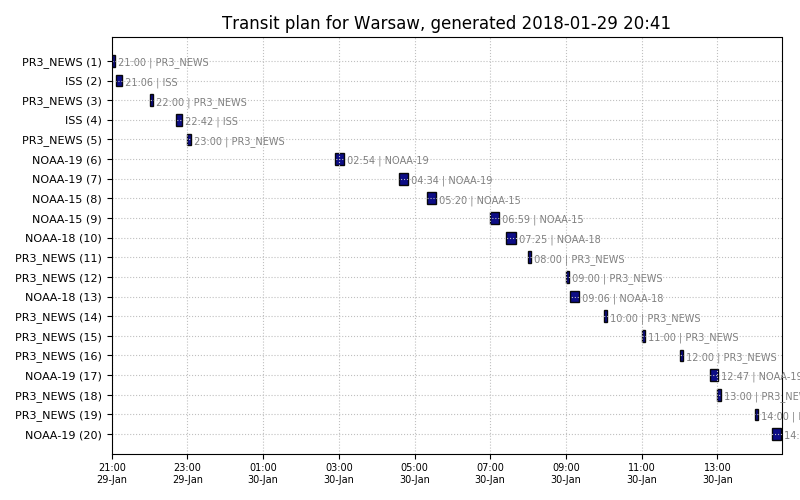
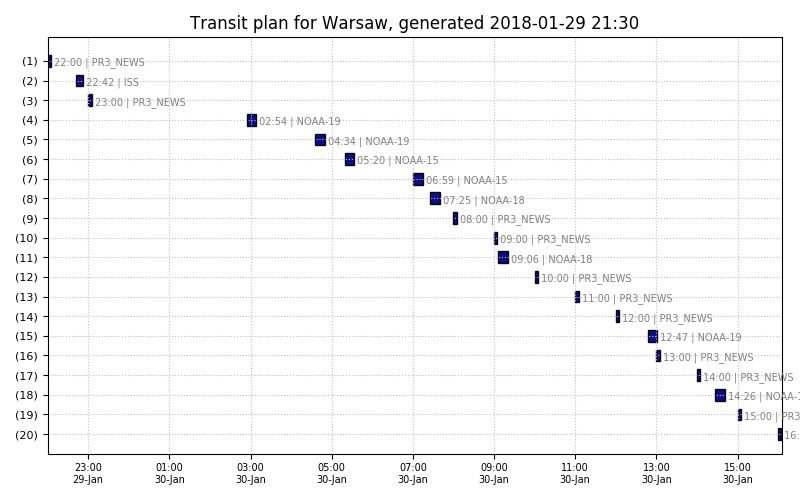
README fine tuning

diff --git a/var/nextpass.html b/var/nextpass.html
@@ -1,103 +1,103 @@
 <table>
 <tr><td>#</td><td>satellite</td><td>start</td><td>duration</td><td>peak</td><td>azimuth</td><td>freq</td><td>process with</td><tr>
-<tr><td>1</td><td>PR3_NEWS</td><td>2018-01-29 21:00</td><td>05:00</td><td>0°</td><td>0° (N)</td><td>98988000Hz</td><td>modules/fm/fm.sh</td><tr>
-<tr><td>2</td><td>ISS</td><td>2018-01-29 21:06</td><td>09:59</td><td>67°</td><td>191° (S)</td><td>145800000Hz</td><td>modules/iss/iss_voice.sh</td><tr>
-<tr><td>3</td><td>PR3_NEWS</td><td>2018-01-29 22:00</td><td>05:00</td><td>0°</td><td>0° (N)</td><td>98988000Hz</td><td>modules/fm/fm.sh</td><tr>
-<tr><td>4</td><td>ISS</td><td>2018-01-29 22:42</td><td>09:30</td><td>24°</td><td>210° (SSW)</td><td>145800000Hz</td><td>modules/iss/iss_voice.sh</td><tr>
-<tr><td>5</td><td>PR3_NEWS</td><td>2018-01-29 23:00</td><td>05:00</td><td>0°</td><td>0° (N)</td><td>98988000Hz</td><td>modules/fm/fm.sh</td><tr>
-<tr><td>6</td><td>NOAA-19</td><td>2018-01-30 02:54</td><td>14:22</td><td>30°</td><td>94° (E)</td><td>137100000Hz</td><td>modules/noaa/noaa.sh</td><tr>
-<tr><td>7</td><td>NOAA-19</td><td>2018-01-30 04:34</td><td>14:54</td><td>53°</td><td>294° (WNW)</td><td>137100000Hz</td><td>modules/noaa/noaa.sh</td><tr>
-<tr><td>8</td><td>NOAA-15</td><td>2018-01-30 05:20</td><td>13:16</td><td>22°</td><td>90° (E)</td><td>137620000Hz</td><td>modules/noaa/noaa.sh</td><tr>
-<tr><td>9</td><td>NOAA-15</td><td>2018-01-30 06:59</td><td>14:35</td><td>68°</td><td>290° (W)</td><td>137620000Hz</td><td>modules/noaa/noaa.sh</td><tr>
-<tr><td>10</td><td>NOAA-18</td><td>2018-01-30 07:25</td><td>14:57</td><td>61°</td><td>102° (E)</td><td>137912500Hz</td><td>modules/noaa/noaa.sh</td><tr>
-<tr><td>11</td><td>PR3_NEWS</td><td>2018-01-30 08:00</td><td>05:00</td><td>0°</td><td>0° (N)</td><td>98988000Hz</td><td>modules/fm/fm.sh</td><tr>
-<tr><td>12</td><td>PR3_NEWS</td><td>2018-01-30 09:00</td><td>05:00</td><td>0°</td><td>0° (N)</td><td>98988000Hz</td><td>modules/fm/fm.sh</td><tr>
-<tr><td>13</td><td>NOAA-18</td><td>2018-01-30 09:06</td><td>13:49</td><td>28°</td><td>302° (WNW)</td><td>137912500Hz</td><td>modules/noaa/noaa.sh</td><tr>
-<tr><td>14</td><td>PR3_NEWS</td><td>2018-01-30 10:00</td><td>05:00</td><td>0°</td><td>0° (N)</td><td>98988000Hz</td><td>modules/fm/fm.sh</td><tr>
-<tr><td>15</td><td>PR3_NEWS</td><td>2018-01-30 11:00</td><td>05:00</td><td>0°</td><td>0° (N)</td><td>98988000Hz</td><td>modules/fm/fm.sh</td><tr>
-<tr><td>16</td><td>PR3_NEWS</td><td>2018-01-30 12:00</td><td>05:00</td><td>0°</td><td>0° (N)</td><td>98988000Hz</td><td>modules/fm/fm.sh</td><tr>
-<tr><td>17</td><td>NOAA-19</td><td>2018-01-30 12:47</td><td>13:03</td><td>20°</td><td>52° (NE)</td><td>137100000Hz</td><td>modules/noaa/noaa.sh</td><tr>
-<tr><td>18</td><td>PR3_NEWS</td><td>2018-01-30 13:00</td><td>05:00</td><td>0°</td><td>0° (N)</td><td>98988000Hz</td><td>modules/fm/fm.sh</td><tr>
-<tr><td>19</td><td>PR3_NEWS</td><td>2018-01-30 14:00</td><td>05:00</td><td>0°</td><td>0° (N)</td><td>98988000Hz</td><td>modules/fm/fm.sh</td><tr>
-<tr><td>20</td><td>NOAA-19</td><td>2018-01-30 14:26</td><td>15:04</td><td>88°</td><td>252° (WSW)</td><td>137100000Hz</td><td>modules/noaa/noaa.sh</td><tr>
-<tr><td>21</td><td>PR3_NEWS</td><td>2018-01-30 15:00</td><td>05:00</td><td>0°</td><td>0° (N)</td><td>98988000Hz</td><td>modules/fm/fm.sh</td><tr>
-<tr><td>22</td><td>PR3_NEWS</td><td>2018-01-30 16:00</td><td>05:00</td><td>0°</td><td>0° (N)</td><td>98988000Hz</td><td>modules/fm/fm.sh</td><tr>
-<tr><td>23</td><td>NOAA-15</td><td>2018-01-30 16:46</td><td>14:29</td><td>60°</td><td>68° (ENE)</td><td>137620000Hz</td><td>modules/noaa/noaa.sh</td><tr>
-<tr><td>24</td><td>PR3_NEWS</td><td>2018-01-30 17:00</td><td>05:00</td><td>0°</td><td>0° (N)</td><td>98988000Hz</td><td>modules/fm/fm.sh</td><tr>
-<tr><td>25</td><td>ISS</td><td>2018-01-30 17:01</td><td>09:11</td><td>21°</td><td>146° (SE)</td><td>145800000Hz</td><td>modules/iss/iss_voice.sh</td><tr>
-<tr><td>26</td><td>NOAA-18</td><td>2018-01-30 17:17</td><td>14:25</td><td>37°</td><td>61° (NE)</td><td>137912500Hz</td><td>modules/noaa/noaa.sh</td><tr>
-<tr><td>27</td><td>PR3_NEWS</td><td>2018-01-30 18:00</td><td>05:00</td><td>0°</td><td>0° (N)</td><td>98988000Hz</td><td>modules/fm/fm.sh</td><tr>
-<tr><td>28</td><td>NOAA-15</td><td>2018-01-30 18:26</td><td>13:38</td><td>25°</td><td>268° (WSW)</td><td>137620000Hz</td><td>modules/noaa/noaa.sh</td><tr>
-<tr><td>29</td><td>ISS</td><td>2018-01-30 18:37</td><td>09:58</td><td>62°</td><td>165° (SSE)</td><td>145800000Hz</td><td>modules/iss/iss_voice.sh</td><tr>
-<tr><td>30</td><td>NOAA-18</td><td>2018-01-30 18:58</td><td>14:40</td><td>43°</td><td>261° (WSW)</td><td>137912500Hz</td><td>modules/noaa/noaa.sh</td><tr>
-<tr><td>31</td><td>PR3_NEWS</td><td>2018-01-30 20:00</td><td>05:00</td><td>0°</td><td>0° (N)</td><td>98988000Hz</td><td>modules/fm/fm.sh</td><tr>
-<tr><td>32</td><td>ISS</td><td>2018-01-30 20:13</td><td>10:01</td><td>77°</td><td>185° (S)</td><td>145800000Hz</td><td>modules/iss/iss_voice.sh</td><tr>
-<tr><td>33</td><td>PR3_NEWS</td><td>2018-01-30 21:00</td><td>05:00</td><td>0°</td><td>0° (N)</td><td>98988000Hz</td><td>modules/fm/fm.sh</td><tr>
-<tr><td>34</td><td>ISS</td><td>2018-01-30 21:50</td><td>09:42</td><td>35°</td><td>205° (SSW)</td><td>145800000Hz</td><td>modules/iss/iss_voice.sh</td><tr>
-<tr><td>35</td><td>PR3_NEWS</td><td>2018-01-30 22:00</td><td>05:00</td><td>0°</td><td>0° (N)</td><td>98988000Hz</td><td>modules/fm/fm.sh</td><tr>
-<tr><td>36</td><td>PR3_NEWS</td><td>2018-01-30 23:00</td><td>05:00</td><td>0°</td><td>0° (N)</td><td>98988000Hz</td><td>modules/fm/fm.sh</td><tr>
-<tr><td>37</td><td>NOAA-19</td><td>2018-01-31 02:42</td><td>14:03</td><td>25°</td><td>91° (E)</td><td>137100000Hz</td><td>modules/noaa/noaa.sh</td><tr>
-<tr><td>38</td><td>NOAA-19</td><td>2018-01-31 04:23</td><td>15:04</td><td>64°</td><td>291° (W)</td><td>137100000Hz</td><td>modules/noaa/noaa.sh</td><tr>
-<tr><td>39</td><td>NOAA-15</td><td>2018-01-31 06:34</td><td>14:40</td><td>79°</td><td>105° (E)</td><td>137620000Hz</td><td>modules/noaa/noaa.sh</td><tr>
-<tr><td>40</td><td>PR3_NEWS</td><td>2018-01-31 07:00</td><td>05:00</td><td>0°</td><td>0° (N)</td><td>98988000Hz</td><td>modules/fm/fm.sh</td><tr>
-<tr><td>41</td><td>NOAA-18</td><td>2018-01-31 07:13</td><td>14:50</td><td>50°</td><td>100° (E)</td><td>137912500Hz</td><td>modules/noaa/noaa.sh</td><tr>
-<tr><td>42</td><td>PR3_NEWS</td><td>2018-01-31 08:00</td><td>05:00</td><td>0°</td><td>0° (N)</td><td>98988000Hz</td><td>modules/fm/fm.sh</td><tr>
-<tr><td>43</td><td>NOAA-15</td><td>2018-01-31 08:14</td><td>12:54</td><td>22°</td><td>305° (WNW)</td><td>137620000Hz</td><td>modules/noaa/noaa.sh</td><tr>
-<tr><td>44</td><td>NOAA-18</td><td>2018-01-31 08:54</td><td>14:06</td><td>33°</td><td>300° (WNW)</td><td>137912500Hz</td><td>modules/noaa/noaa.sh</td><tr>
-<tr><td>45</td><td>PR3_NEWS</td><td>2018-01-31 10:00</td><td>05:00</td><td>0°</td><td>0° (N)</td><td>98988000Hz</td><td>modules/fm/fm.sh</td><tr>
-<tr><td>46</td><td>PR3_NEWS</td><td>2018-01-31 11:00</td><td>05:00</td><td>0°</td><td>0° (N)</td><td>98988000Hz</td><td>modules/fm/fm.sh</td><tr>
-<tr><td>47</td><td>PR3_NEWS</td><td>2018-01-31 12:00</td><td>05:00</td><td>0°</td><td>0° (N)</td><td>98988000Hz</td><td>modules/fm/fm.sh</td><tr>
-<tr><td>48</td><td>PR3_NEWS</td><td>2018-01-31 13:00</td><td>05:00</td><td>0°</td><td>0° (N)</td><td>98988000Hz</td><td>modules/fm/fm.sh</td><tr>
-<tr><td>49</td><td>PR3_NEWS</td><td>2018-01-31 14:00</td><td>05:00</td><td>0°</td><td>0° (N)</td><td>98988000Hz</td><td>modules/fm/fm.sh</td><tr>
-<tr><td>50</td><td>NOAA-19</td><td>2018-01-31 14:15</td><td>15:01</td><td>77°</td><td>70° (ENE)</td><td>137100000Hz</td><td>modules/noaa/noaa.sh</td><tr>
-<tr><td>51</td><td>PR3_NEWS</td><td>2018-01-31 15:00</td><td>05:00</td><td>0°</td><td>0° (N)</td><td>98988000Hz</td><td>modules/fm/fm.sh</td><tr>
-<tr><td>52</td><td>NOAA-19</td><td>2018-01-31 15:57</td><td>13:22</td><td>20°</td><td>270° (W)</td><td>137100000Hz</td><td>modules/noaa/noaa.sh</td><tr>
-<tr><td>53</td><td>NOAA-15</td><td>2018-01-31 16:21</td><td>14:05</td><td>40°</td><td>63° (NE)</td><td>137620000Hz</td><td>modules/noaa/noaa.sh</td><tr>
-<tr><td>54</td><td>PR3_NEWS</td><td>2018-01-31 17:00</td><td>05:00</td><td>0°</td><td>0° (N)</td><td>98988000Hz</td><td>modules/fm/fm.sh</td><tr>
-<tr><td>55</td><td>NOAA-18</td><td>2018-01-31 17:06</td><td>14:06</td><td>32°</td><td>58° (NE)</td><td>137912500Hz</td><td>modules/noaa/noaa.sh</td><tr>
-<tr><td>56</td><td>ISS</td><td>2018-01-31 17:45</td><td>09:59</td><td>47°</td><td>160° (SSE)</td><td>145800000Hz</td><td>modules/iss/iss_voice.sh</td><tr>
-<tr><td>57</td><td>PR3_NEWS</td><td>2018-01-31 18:00</td><td>05:00</td><td>0°</td><td>0° (N)</td><td>98988000Hz</td><td>modules/fm/fm.sh</td><tr>
-<tr><td>58</td><td>NOAA-15</td><td>2018-01-31 18:01</td><td>14:14</td><td>38°</td><td>263° (WSW)</td><td>137620000Hz</td><td>modules/noaa/noaa.sh</td><tr>
-<tr><td>59</td><td>NOAA-18</td><td>2018-01-31 18:46</td><td>14:59</td><td>53°</td><td>258° (WSW)</td><td>137912500Hz</td><td>modules/noaa/noaa.sh</td><tr>
-<tr><td>60</td><td>PR3_NEWS</td><td>2018-01-31 19:00</td><td>05:00</td><td>0°</td><td>0° (N)</td><td>98988000Hz</td><td>modules/fm/fm.sh</td><tr>
-<tr><td>61</td><td>ISS</td><td>2018-01-31 19:21</td><td>10:07</td><td>81°</td><td>179° (SSE)</td><td>145800000Hz</td><td>modules/iss/iss_voice.sh</td><tr>
-<tr><td>62</td><td>PR3_NEWS</td><td>2018-01-31 20:00</td><td>05:00</td><td>0°</td><td>0° (N)</td><td>98988000Hz</td><td>modules/fm/fm.sh</td><tr>
-<tr><td>63</td><td>PR3_NEWS</td><td>2018-01-31 21:00</td><td>05:00</td><td>0°</td><td>0° (N)</td><td>98988000Hz</td><td>modules/fm/fm.sh</td><tr>
-<tr><td>64</td><td>PR3_NEWS</td><td>2018-01-31 22:00</td><td>05:00</td><td>0°</td><td>0° (N)</td><td>98988000Hz</td><td>modules/fm/fm.sh</td><tr>
-<tr><td>65</td><td>PR3_NEWS</td><td>2018-01-31 23:00</td><td>05:00</td><td>0°</td><td>0° (N)</td><td>98988000Hz</td><td>modules/fm/fm.sh</td><tr>
-<tr><td>66</td><td>NOAA-19</td><td>2018-02-01 02:31</td><td>13:33</td><td>20°</td><td>89° (ENE)</td><td>137100000Hz</td><td>modules/noaa/noaa.sh</td><tr>
-<tr><td>67</td><td>NOAA-19</td><td>2018-02-01 04:11</td><td>15:10</td><td>77°</td><td>289° (W)</td><td>137100000Hz</td><td>modules/noaa/noaa.sh</td><tr>
-<tr><td>68</td><td>NOAA-15</td><td>2018-02-01 06:09</td><td>14:30</td><td>51°</td><td>100° (E)</td><td>137620000Hz</td><td>modules/noaa/noaa.sh</td><tr>
-<tr><td>69</td><td>PR3_NEWS</td><td>2018-02-01 07:00</td><td>05:00</td><td>0°</td><td>0° (N)</td><td>98988000Hz</td><td>modules/fm/fm.sh</td><tr>
-<tr><td>70</td><td>NOAA-18</td><td>2018-02-01 07:02</td><td>14:37</td><td>41°</td><td>98° (E)</td><td>137912500Hz</td><td>modules/noaa/noaa.sh</td><tr>
-<tr><td>71</td><td>NOAA-15</td><td>2018-02-01 07:49</td><td>13:41</td><td>31°</td><td>300° (WNW)</td><td>137620000Hz</td><td>modules/noaa/noaa.sh</td><tr>
-<tr><td>72</td><td>PR3_NEWS</td><td>2018-02-01 08:00</td><td>05:00</td><td>0°</td><td>0° (N)</td><td>98988000Hz</td><td>modules/fm/fm.sh</td><tr>
-<tr><td>73</td><td>NOAA-18</td><td>2018-02-01 08:43</td><td>14:22</td><td>39°</td><td>298° (WNW)</td><td>137912500Hz</td><td>modules/noaa/noaa.sh</td><tr>
-<tr><td>74</td><td>PR3_NEWS</td><td>2018-02-01 09:00</td><td>05:00</td><td>0°</td><td>0° (N)</td><td>98988000Hz</td><td>modules/fm/fm.sh</td><tr>
-<tr><td>75</td><td>PR3_NEWS</td><td>2018-02-01 10:00</td><td>05:00</td><td>0°</td><td>0° (N)</td><td>98988000Hz</td><td>modules/fm/fm.sh</td><tr>
-<tr><td>76</td><td>PR3_NEWS</td><td>2018-02-01 11:00</td><td>05:00</td><td>0°</td><td>0° (N)</td><td>98988000Hz</td><td>modules/fm/fm.sh</td><tr>
-<tr><td>77</td><td>PR3_NEWS</td><td>2018-02-01 12:00</td><td>05:00</td><td>0°</td><td>0° (N)</td><td>98988000Hz</td><td>modules/fm/fm.sh</td><tr>
-<tr><td>78</td><td>PR3_NEWS</td><td>2018-02-01 13:00</td><td>05:00</td><td>0°</td><td>0° (N)</td><td>98988000Hz</td><td>modules/fm/fm.sh</td><tr>
-<tr><td>79</td><td>PR3_NEWS</td><td>2018-02-01 14:00</td><td>05:00</td><td>0°</td><td>0° (N)</td><td>98988000Hz</td><td>modules/fm/fm.sh</td><tr>
-<tr><td>80</td><td>NOAA-19</td><td>2018-02-01 14:03</td><td>14:56</td><td>64°</td><td>68° (ENE)</td><td>137100000Hz</td><td>modules/noaa/noaa.sh</td><tr>
-<tr><td>81</td><td>PR3_NEWS</td><td>2018-02-01 15:00</td><td>05:00</td><td>0°</td><td>0° (N)</td><td>98988000Hz</td><td>modules/fm/fm.sh</td><tr>
-<tr><td>82</td><td>NOAA-19</td><td>2018-02-01 15:45</td><td>13:58</td><td>24°</td><td>268° (WSW)</td><td>137100000Hz</td><td>modules/noaa/noaa.sh</td><tr>
-<tr><td>83</td><td>NOAA-15</td><td>2018-02-01 15:56</td><td>13:34</td><td>27°</td><td>58° (NE)</td><td>137620000Hz</td><td>modules/noaa/noaa.sh</td><tr>
-<tr><td>84</td><td>NOAA-18</td><td>2018-02-01 16:54</td><td>13:46</td><td>27°</td><td>56° (NE)</td><td>137912500Hz</td><td>modules/noaa/noaa.sh</td><tr>
-<tr><td>85</td><td>NOAA-15</td><td>2018-02-01 17:35</td><td>14:41</td><td>60°</td><td>258° (WSW)</td><td>137620000Hz</td><td>modules/noaa/noaa.sh</td><tr>
-<tr><td>86</td><td>PR3_NEWS</td><td>2018-02-01 18:00</td><td>05:00</td><td>0°</td><td>0° (N)</td><td>98988000Hz</td><td>modules/fm/fm.sh</td><tr>
-<tr><td>87</td><td>NOAA-18</td><td>2018-02-01 18:34</td><td>15:05</td><td>65°</td><td>256° (WSW)</td><td>137912500Hz</td><td>modules/noaa/noaa.sh</td><tr>
-<tr><td>88</td><td>PR3_NEWS</td><td>2018-02-01 19:00</td><td>05:00</td><td>0°</td><td>0° (N)</td><td>98988000Hz</td><td>modules/fm/fm.sh</td><tr>
-<tr><td>89</td><td>ISS</td><td>2018-02-01 20:05</td><td>09:59</td><td>62°</td><td>193° (S)</td><td>145800000Hz</td><td>modules/iss/iss_voice.sh</td><tr>
-<tr><td>90</td><td>ISS</td><td>2018-02-01 21:42</td><td>09:12</td><td>21°</td><td>212° (SSW)</td><td>145800000Hz</td><td>modules/iss/iss_voice.sh</td><tr>
-<tr><td>91</td><td>NOAA-19</td><td>2018-02-02 04:00</td><td>15:13</td><td>88°</td><td>107° (E)</td><td>137100000Hz</td><td>modules/noaa/noaa.sh</td><tr>
-<tr><td>92</td><td>NOAA-19</td><td>2018-02-02 05:41</td><td>13:12</td><td>21°</td><td>307° (WNW)</td><td>137100000Hz</td><td>modules/noaa/noaa.sh</td><tr>
-<tr><td>93</td><td>NOAA-15</td><td>2018-02-02 05:44</td><td>14:02</td><td>33°</td><td>95° (E)</td><td>137620000Hz</td><td>modules/noaa/noaa.sh</td><tr>
-<tr><td>94</td><td>NOAA-18</td><td>2018-02-02 06:50</td><td>14:22</td><td>33°</td><td>95° (E)</td><td>137912500Hz</td><td>modules/noaa/noaa.sh</td><tr>
-<tr><td>95</td><td>NOAA-15</td><td>2018-02-02 07:24</td><td>14:14</td><td>45°</td><td>295° (WNW)</td><td>137620000Hz</td><td>modules/noaa/noaa.sh</td><tr>
-<tr><td>96</td><td>NOAA-18</td><td>2018-02-02 08:31</td><td>14:36</td><td>47°</td><td>295° (WNW)</td><td>137912500Hz</td><td>modules/noaa/noaa.sh</td><tr>
-<tr><td>97</td><td>NOAA-19</td><td>2018-02-02 13:52</td><td>14:47</td><td>53°</td><td>65° (NE)</td><td>137100000Hz</td><td>modules/noaa/noaa.sh</td><tr>
-<tr><td>98</td><td>NOAA-19</td><td>2018-02-02 15:33</td><td>14:14</td><td>30°</td><td>265° (WSW)</td><td>137100000Hz</td><td>modules/noaa/noaa.sh</td><tr>
-<tr><td>99</td><td>ISS</td><td>2018-02-02 16:01</td><td>09:20</td><td>24°</td><td>148° (SE)</td><td>145800000Hz</td><td>modules/iss/iss_voice.sh</td><tr>
-<tr><td>100</td><td>NOAA-18</td><td>2018-02-02 16:43</td><td>13:22</td><td>23°</td><td>54° (NE)</td><td>137912500Hz</td><td>modules/noaa/noaa.sh</td><tr>
+<tr><td>1</td><td>PR3_NEWS</td><td>2018-01-29 22:00</td><td>05:00</td><td>0°</td><td>0° (N)</td><td>98988000Hz</td><td>modules/fm/fm.sh</td><tr>
+<tr><td>2</td><td>ISS</td><td>2018-01-29 22:42</td><td>09:30</td><td>24°</td><td>210° (SSW)</td><td>145800000Hz</td><td>modules/iss/iss_voice.sh</td><tr>
+<tr><td>3</td><td>PR3_NEWS</td><td>2018-01-29 23:00</td><td>05:00</td><td>0°</td><td>0° (N)</td><td>98988000Hz</td><td>modules/fm/fm.sh</td><tr>
+<tr><td>4</td><td>NOAA-19</td><td>2018-01-30 02:54</td><td>14:22</td><td>30°</td><td>94° (E)</td><td>137100000Hz</td><td>modules/noaa/noaa.sh</td><tr>
+<tr><td>5</td><td>NOAA-19</td><td>2018-01-30 04:34</td><td>14:54</td><td>53°</td><td>294° (WNW)</td><td>137100000Hz</td><td>modules/noaa/noaa.sh</td><tr>
+<tr><td>6</td><td>NOAA-15</td><td>2018-01-30 05:20</td><td>13:16</td><td>22°</td><td>90° (E)</td><td>137620000Hz</td><td>modules/noaa/noaa.sh</td><tr>
+<tr><td>7</td><td>NOAA-15</td><td>2018-01-30 06:59</td><td>14:35</td><td>68°</td><td>290° (W)</td><td>137620000Hz</td><td>modules/noaa/noaa.sh</td><tr>
+<tr><td>8</td><td>NOAA-18</td><td>2018-01-30 07:25</td><td>14:57</td><td>61°</td><td>102° (E)</td><td>137912500Hz</td><td>modules/noaa/noaa.sh</td><tr>
+<tr><td>9</td><td>PR3_NEWS</td><td>2018-01-30 08:00</td><td>05:00</td><td>0°</td><td>0° (N)</td><td>98988000Hz</td><td>modules/fm/fm.sh</td><tr>
+<tr><td>10</td><td>PR3_NEWS</td><td>2018-01-30 09:00</td><td>05:00</td><td>0°</td><td>0° (N)</td><td>98988000Hz</td><td>modules/fm/fm.sh</td><tr>
+<tr><td>11</td><td>NOAA-18</td><td>2018-01-30 09:06</td><td>13:49</td><td>28°</td><td>302° (WNW)</td><td>137912500Hz</td><td>modules/noaa/noaa.sh</td><tr>
+<tr><td>12</td><td>PR3_NEWS</td><td>2018-01-30 10:00</td><td>05:00</td><td>0°</td><td>0° (N)</td><td>98988000Hz</td><td>modules/fm/fm.sh</td><tr>
+<tr><td>13</td><td>PR3_NEWS</td><td>2018-01-30 11:00</td><td>05:00</td><td>0°</td><td>0° (N)</td><td>98988000Hz</td><td>modules/fm/fm.sh</td><tr>
+<tr><td>14</td><td>PR3_NEWS</td><td>2018-01-30 12:00</td><td>05:00</td><td>0°</td><td>0° (N)</td><td>98988000Hz</td><td>modules/fm/fm.sh</td><tr>
+<tr><td>15</td><td>NOAA-19</td><td>2018-01-30 12:47</td><td>13:03</td><td>20°</td><td>52° (NE)</td><td>137100000Hz</td><td>modules/noaa/noaa.sh</td><tr>
+<tr><td>16</td><td>PR3_NEWS</td><td>2018-01-30 13:00</td><td>05:00</td><td>0°</td><td>0° (N)</td><td>98988000Hz</td><td>modules/fm/fm.sh</td><tr>
+<tr><td>17</td><td>PR3_NEWS</td><td>2018-01-30 14:00</td><td>05:00</td><td>0°</td><td>0° (N)</td><td>98988000Hz</td><td>modules/fm/fm.sh</td><tr>
+<tr><td>18</td><td>NOAA-19</td><td>2018-01-30 14:26</td><td>15:04</td><td>88°</td><td>252° (WSW)</td><td>137100000Hz</td><td>modules/noaa/noaa.sh</td><tr>
+<tr><td>19</td><td>PR3_NEWS</td><td>2018-01-30 15:00</td><td>05:00</td><td>0°</td><td>0° (N)</td><td>98988000Hz</td><td>modules/fm/fm.sh</td><tr>
+<tr><td>20</td><td>PR3_NEWS</td><td>2018-01-30 16:00</td><td>05:00</td><td>0°</td><td>0° (N)</td><td>98988000Hz</td><td>modules/fm/fm.sh</td><tr>
+<tr><td>21</td><td>NOAA-15</td><td>2018-01-30 16:46</td><td>14:29</td><td>60°</td><td>68° (ENE)</td><td>137620000Hz</td><td>modules/noaa/noaa.sh</td><tr>
+<tr><td>22</td><td>PR3_NEWS</td><td>2018-01-30 17:00</td><td>05:00</td><td>0°</td><td>0° (N)</td><td>98988000Hz</td><td>modules/fm/fm.sh</td><tr>
+<tr><td>23</td><td>ISS</td><td>2018-01-30 17:01</td><td>09:11</td><td>21°</td><td>146° (SE)</td><td>145800000Hz</td><td>modules/iss/iss_voice.sh</td><tr>
+<tr><td>24</td><td>NOAA-18</td><td>2018-01-30 17:17</td><td>14:25</td><td>37°</td><td>61° (NE)</td><td>137912500Hz</td><td>modules/noaa/noaa.sh</td><tr>
+<tr><td>25</td><td>PR3_NEWS</td><td>2018-01-30 18:00</td><td>05:00</td><td>0°</td><td>0° (N)</td><td>98988000Hz</td><td>modules/fm/fm.sh</td><tr>
+<tr><td>26</td><td>NOAA-15</td><td>2018-01-30 18:26</td><td>13:38</td><td>25°</td><td>268° (WSW)</td><td>137620000Hz</td><td>modules/noaa/noaa.sh</td><tr>
+<tr><td>27</td><td>ISS</td><td>2018-01-30 18:37</td><td>09:58</td><td>62°</td><td>165° (SSE)</td><td>145800000Hz</td><td>modules/iss/iss_voice.sh</td><tr>
+<tr><td>28</td><td>NOAA-18</td><td>2018-01-30 18:58</td><td>14:40</td><td>43°</td><td>261° (WSW)</td><td>137912500Hz</td><td>modules/noaa/noaa.sh</td><tr>
+<tr><td>29</td><td>PR3_NEWS</td><td>2018-01-30 20:00</td><td>05:00</td><td>0°</td><td>0° (N)</td><td>98988000Hz</td><td>modules/fm/fm.sh</td><tr>
+<tr><td>30</td><td>ISS</td><td>2018-01-30 20:13</td><td>10:01</td><td>77°</td><td>185° (S)</td><td>145800000Hz</td><td>modules/iss/iss_voice.sh</td><tr>
+<tr><td>31</td><td>PR3_NEWS</td><td>2018-01-30 21:00</td><td>05:00</td><td>0°</td><td>0° (N)</td><td>98988000Hz</td><td>modules/fm/fm.sh</td><tr>
+<tr><td>32</td><td>ISS</td><td>2018-01-30 21:50</td><td>09:42</td><td>35°</td><td>205° (SSW)</td><td>145800000Hz</td><td>modules/iss/iss_voice.sh</td><tr>
+<tr><td>33</td><td>PR3_NEWS</td><td>2018-01-30 22:00</td><td>05:00</td><td>0°</td><td>0° (N)</td><td>98988000Hz</td><td>modules/fm/fm.sh</td><tr>
+<tr><td>34</td><td>PR3_NEWS</td><td>2018-01-30 23:00</td><td>05:00</td><td>0°</td><td>0° (N)</td><td>98988000Hz</td><td>modules/fm/fm.sh</td><tr>
+<tr><td>35</td><td>NOAA-19</td><td>2018-01-31 02:42</td><td>14:03</td><td>25°</td><td>91° (E)</td><td>137100000Hz</td><td>modules/noaa/noaa.sh</td><tr>
+<tr><td>36</td><td>NOAA-19</td><td>2018-01-31 04:23</td><td>15:04</td><td>64°</td><td>291° (W)</td><td>137100000Hz</td><td>modules/noaa/noaa.sh</td><tr>
+<tr><td>37</td><td>NOAA-15</td><td>2018-01-31 06:34</td><td>14:40</td><td>79°</td><td>105° (E)</td><td>137620000Hz</td><td>modules/noaa/noaa.sh</td><tr>
+<tr><td>38</td><td>PR3_NEWS</td><td>2018-01-31 07:00</td><td>05:00</td><td>0°</td><td>0° (N)</td><td>98988000Hz</td><td>modules/fm/fm.sh</td><tr>
+<tr><td>39</td><td>NOAA-18</td><td>2018-01-31 07:13</td><td>14:50</td><td>50°</td><td>100° (E)</td><td>137912500Hz</td><td>modules/noaa/noaa.sh</td><tr>
+<tr><td>40</td><td>PR3_NEWS</td><td>2018-01-31 08:00</td><td>05:00</td><td>0°</td><td>0° (N)</td><td>98988000Hz</td><td>modules/fm/fm.sh</td><tr>
+<tr><td>41</td><td>NOAA-15</td><td>2018-01-31 08:14</td><td>12:54</td><td>22°</td><td>305° (WNW)</td><td>137620000Hz</td><td>modules/noaa/noaa.sh</td><tr>
+<tr><td>42</td><td>NOAA-18</td><td>2018-01-31 08:54</td><td>14:06</td><td>33°</td><td>300° (WNW)</td><td>137912500Hz</td><td>modules/noaa/noaa.sh</td><tr>
+<tr><td>43</td><td>PR3_NEWS</td><td>2018-01-31 10:00</td><td>05:00</td><td>0°</td><td>0° (N)</td><td>98988000Hz</td><td>modules/fm/fm.sh</td><tr>
+<tr><td>44</td><td>PR3_NEWS</td><td>2018-01-31 11:00</td><td>05:00</td><td>0°</td><td>0° (N)</td><td>98988000Hz</td><td>modules/fm/fm.sh</td><tr>
+<tr><td>45</td><td>PR3_NEWS</td><td>2018-01-31 12:00</td><td>05:00</td><td>0°</td><td>0° (N)</td><td>98988000Hz</td><td>modules/fm/fm.sh</td><tr>
+<tr><td>46</td><td>PR3_NEWS</td><td>2018-01-31 13:00</td><td>05:00</td><td>0°</td><td>0° (N)</td><td>98988000Hz</td><td>modules/fm/fm.sh</td><tr>
+<tr><td>47</td><td>PR3_NEWS</td><td>2018-01-31 14:00</td><td>05:00</td><td>0°</td><td>0° (N)</td><td>98988000Hz</td><td>modules/fm/fm.sh</td><tr>
+<tr><td>48</td><td>NOAA-19</td><td>2018-01-31 14:15</td><td>15:01</td><td>77°</td><td>70° (ENE)</td><td>137100000Hz</td><td>modules/noaa/noaa.sh</td><tr>
+<tr><td>49</td><td>PR3_NEWS</td><td>2018-01-31 15:00</td><td>05:00</td><td>0°</td><td>0° (N)</td><td>98988000Hz</td><td>modules/fm/fm.sh</td><tr>
+<tr><td>50</td><td>NOAA-19</td><td>2018-01-31 15:57</td><td>13:22</td><td>20°</td><td>270° (W)</td><td>137100000Hz</td><td>modules/noaa/noaa.sh</td><tr>
+<tr><td>51</td><td>NOAA-15</td><td>2018-01-31 16:21</td><td>14:05</td><td>40°</td><td>63° (NE)</td><td>137620000Hz</td><td>modules/noaa/noaa.sh</td><tr>
+<tr><td>52</td><td>PR3_NEWS</td><td>2018-01-31 17:00</td><td>05:00</td><td>0°</td><td>0° (N)</td><td>98988000Hz</td><td>modules/fm/fm.sh</td><tr>
+<tr><td>53</td><td>NOAA-18</td><td>2018-01-31 17:06</td><td>14:06</td><td>32°</td><td>58° (NE)</td><td>137912500Hz</td><td>modules/noaa/noaa.sh</td><tr>
+<tr><td>54</td><td>ISS</td><td>2018-01-31 17:45</td><td>09:59</td><td>47°</td><td>160° (SSE)</td><td>145800000Hz</td><td>modules/iss/iss_voice.sh</td><tr>
+<tr><td>55</td><td>PR3_NEWS</td><td>2018-01-31 18:00</td><td>05:00</td><td>0°</td><td>0° (N)</td><td>98988000Hz</td><td>modules/fm/fm.sh</td><tr>
+<tr><td>56</td><td>NOAA-15</td><td>2018-01-31 18:01</td><td>14:14</td><td>38°</td><td>263° (WSW)</td><td>137620000Hz</td><td>modules/noaa/noaa.sh</td><tr>
+<tr><td>57</td><td>NOAA-18</td><td>2018-01-31 18:46</td><td>14:59</td><td>53°</td><td>258° (WSW)</td><td>137912500Hz</td><td>modules/noaa/noaa.sh</td><tr>
+<tr><td>58</td><td>PR3_NEWS</td><td>2018-01-31 19:00</td><td>05:00</td><td>0°</td><td>0° (N)</td><td>98988000Hz</td><td>modules/fm/fm.sh</td><tr>
+<tr><td>59</td><td>ISS</td><td>2018-01-31 19:21</td><td>10:07</td><td>81°</td><td>179° (SSE)</td><td>145800000Hz</td><td>modules/iss/iss_voice.sh</td><tr>
+<tr><td>60</td><td>PR3_NEWS</td><td>2018-01-31 20:00</td><td>05:00</td><td>0°</td><td>0° (N)</td><td>98988000Hz</td><td>modules/fm/fm.sh</td><tr>
+<tr><td>61</td><td>PR3_NEWS</td><td>2018-01-31 21:00</td><td>05:00</td><td>0°</td><td>0° (N)</td><td>98988000Hz</td><td>modules/fm/fm.sh</td><tr>
+<tr><td>62</td><td>PR3_NEWS</td><td>2018-01-31 22:00</td><td>05:00</td><td>0°</td><td>0° (N)</td><td>98988000Hz</td><td>modules/fm/fm.sh</td><tr>
+<tr><td>63</td><td>PR3_NEWS</td><td>2018-01-31 23:00</td><td>05:00</td><td>0°</td><td>0° (N)</td><td>98988000Hz</td><td>modules/fm/fm.sh</td><tr>
+<tr><td>64</td><td>NOAA-19</td><td>2018-02-01 02:31</td><td>13:33</td><td>20°</td><td>89° (ENE)</td><td>137100000Hz</td><td>modules/noaa/noaa.sh</td><tr>
+<tr><td>65</td><td>NOAA-19</td><td>2018-02-01 04:11</td><td>15:10</td><td>77°</td><td>289° (W)</td><td>137100000Hz</td><td>modules/noaa/noaa.sh</td><tr>
+<tr><td>66</td><td>NOAA-15</td><td>2018-02-01 06:09</td><td>14:30</td><td>51°</td><td>100° (E)</td><td>137620000Hz</td><td>modules/noaa/noaa.sh</td><tr>
+<tr><td>67</td><td>PR3_NEWS</td><td>2018-02-01 07:00</td><td>05:00</td><td>0°</td><td>0° (N)</td><td>98988000Hz</td><td>modules/fm/fm.sh</td><tr>
+<tr><td>68</td><td>NOAA-18</td><td>2018-02-01 07:02</td><td>14:37</td><td>41°</td><td>98° (E)</td><td>137912500Hz</td><td>modules/noaa/noaa.sh</td><tr>
+<tr><td>69</td><td>NOAA-15</td><td>2018-02-01 07:49</td><td>13:41</td><td>31°</td><td>300° (WNW)</td><td>137620000Hz</td><td>modules/noaa/noaa.sh</td><tr>
+<tr><td>70</td><td>PR3_NEWS</td><td>2018-02-01 08:00</td><td>05:00</td><td>0°</td><td>0° (N)</td><td>98988000Hz</td><td>modules/fm/fm.sh</td><tr>
+<tr><td>71</td><td>NOAA-18</td><td>2018-02-01 08:43</td><td>14:22</td><td>39°</td><td>298° (WNW)</td><td>137912500Hz</td><td>modules/noaa/noaa.sh</td><tr>
+<tr><td>72</td><td>PR3_NEWS</td><td>2018-02-01 09:00</td><td>05:00</td><td>0°</td><td>0° (N)</td><td>98988000Hz</td><td>modules/fm/fm.sh</td><tr>
+<tr><td>73</td><td>PR3_NEWS</td><td>2018-02-01 10:00</td><td>05:00</td><td>0°</td><td>0° (N)</td><td>98988000Hz</td><td>modules/fm/fm.sh</td><tr>
+<tr><td>74</td><td>PR3_NEWS</td><td>2018-02-01 11:00</td><td>05:00</td><td>0°</td><td>0° (N)</td><td>98988000Hz</td><td>modules/fm/fm.sh</td><tr>
+<tr><td>75</td><td>PR3_NEWS</td><td>2018-02-01 12:00</td><td>05:00</td><td>0°</td><td>0° (N)</td><td>98988000Hz</td><td>modules/fm/fm.sh</td><tr>
+<tr><td>76</td><td>PR3_NEWS</td><td>2018-02-01 13:00</td><td>05:00</td><td>0°</td><td>0° (N)</td><td>98988000Hz</td><td>modules/fm/fm.sh</td><tr>
+<tr><td>77</td><td>PR3_NEWS</td><td>2018-02-01 14:00</td><td>05:00</td><td>0°</td><td>0° (N)</td><td>98988000Hz</td><td>modules/fm/fm.sh</td><tr>
+<tr><td>78</td><td>NOAA-19</td><td>2018-02-01 14:03</td><td>14:56</td><td>64°</td><td>68° (ENE)</td><td>137100000Hz</td><td>modules/noaa/noaa.sh</td><tr>
+<tr><td>79</td><td>PR3_NEWS</td><td>2018-02-01 15:00</td><td>05:00</td><td>0°</td><td>0° (N)</td><td>98988000Hz</td><td>modules/fm/fm.sh</td><tr>
+<tr><td>80</td><td>NOAA-19</td><td>2018-02-01 15:45</td><td>13:58</td><td>24°</td><td>268° (WSW)</td><td>137100000Hz</td><td>modules/noaa/noaa.sh</td><tr>
+<tr><td>81</td><td>NOAA-15</td><td>2018-02-01 15:56</td><td>13:34</td><td>27°</td><td>58° (NE)</td><td>137620000Hz</td><td>modules/noaa/noaa.sh</td><tr>
+<tr><td>82</td><td>NOAA-18</td><td>2018-02-01 16:54</td><td>13:46</td><td>27°</td><td>56° (NE)</td><td>137912500Hz</td><td>modules/noaa/noaa.sh</td><tr>
+<tr><td>83</td><td>NOAA-15</td><td>2018-02-01 17:35</td><td>14:41</td><td>60°</td><td>258° (WSW)</td><td>137620000Hz</td><td>modules/noaa/noaa.sh</td><tr>
+<tr><td>84</td><td>PR3_NEWS</td><td>2018-02-01 18:00</td><td>05:00</td><td>0°</td><td>0° (N)</td><td>98988000Hz</td><td>modules/fm/fm.sh</td><tr>
+<tr><td>85</td><td>NOAA-18</td><td>2018-02-01 18:34</td><td>15:05</td><td>65°</td><td>256° (WSW)</td><td>137912500Hz</td><td>modules/noaa/noaa.sh</td><tr>
+<tr><td>86</td><td>PR3_NEWS</td><td>2018-02-01 19:00</td><td>05:00</td><td>0°</td><td>0° (N)</td><td>98988000Hz</td><td>modules/fm/fm.sh</td><tr>
+<tr><td>87</td><td>PR3_NEWS</td><td>2018-02-01 20:00</td><td>05:00</td><td>0°</td><td>0° (N)</td><td>98988000Hz</td><td>modules/fm/fm.sh</td><tr>
+<tr><td>88</td><td>ISS</td><td>2018-02-01 20:05</td><td>09:59</td><td>62°</td><td>193° (S)</td><td>145800000Hz</td><td>modules/iss/iss_voice.sh</td><tr>
+<tr><td>89</td><td>ISS</td><td>2018-02-01 21:42</td><td>09:12</td><td>21°</td><td>212° (SSW)</td><td>145800000Hz</td><td>modules/iss/iss_voice.sh</td><tr>
+<tr><td>90</td><td>NOAA-19</td><td>2018-02-02 04:00</td><td>15:13</td><td>88°</td><td>107° (E)</td><td>137100000Hz</td><td>modules/noaa/noaa.sh</td><tr>
+<tr><td>91</td><td>NOAA-19</td><td>2018-02-02 05:41</td><td>13:12</td><td>21°</td><td>307° (WNW)</td><td>137100000Hz</td><td>modules/noaa/noaa.sh</td><tr>
+<tr><td>92</td><td>NOAA-15</td><td>2018-02-02 05:44</td><td>14:02</td><td>33°</td><td>95° (E)</td><td>137620000Hz</td><td>modules/noaa/noaa.sh</td><tr>
+<tr><td>93</td><td>NOAA-18</td><td>2018-02-02 06:50</td><td>14:22</td><td>33°</td><td>95° (E)</td><td>137912500Hz</td><td>modules/noaa/noaa.sh</td><tr>
+<tr><td>94</td><td>NOAA-15</td><td>2018-02-02 07:24</td><td>14:14</td><td>45°</td><td>295° (WNW)</td><td>137620000Hz</td><td>modules/noaa/noaa.sh</td><tr>
+<tr><td>95</td><td>NOAA-18</td><td>2018-02-02 08:31</td><td>14:36</td><td>47°</td><td>295° (WNW)</td><td>137912500Hz</td><td>modules/noaa/noaa.sh</td><tr>
+<tr><td>96</td><td>NOAA-19</td><td>2018-02-02 13:52</td><td>14:47</td><td>53°</td><td>65° (NE)</td><td>137100000Hz</td><td>modules/noaa/noaa.sh</td><tr>
+<tr><td>97</td><td>NOAA-19</td><td>2018-02-02 15:33</td><td>14:14</td><td>30°</td><td>265° (WSW)</td><td>137100000Hz</td><td>modules/noaa/noaa.sh</td><tr>
+<tr><td>98</td><td>ISS</td><td>2018-02-02 16:01</td><td>09:20</td><td>24°</td><td>148° (SE)</td><td>145800000Hz</td><td>modules/iss/iss_voice.sh</td><tr>
+<tr><td>99</td><td>NOAA-18</td><td>2018-02-02 16:43</td><td>13:22</td><td>23°</td><td>54° (NE)</td><td>137912500Hz</td><td>modules/noaa/noaa.sh</td><tr>
+<tr><td>100</td><td>NOAA-15</td><td>2018-02-02 17:10</td><td>14:35</td><td>89°</td><td>73° (ENE)</td><td>137620000Hz</td><td>modules/noaa/noaa.sh</td><tr>
 </table>

diff --git a/genpasstable.py b/genpasstable.py
@@ -41,7 +41,8 @@ def CreateGanttChart(listNextPasesListList):
     i=1
     for tx in listNextPasesListList:
         ylabel,startdate,enddate=tx
-        ylabels.append("%s (%1i)" % (ylabel, i) )
+        #ylabels.append("%s (%1i)" % (ylabel, i) )
+        ylabels.append("(%1i)" % (i) )
         #ylabels.append("%s" % (ylabel) )
         customDates.append([_create_date(startdate),_create_date(enddate)])
         i+=1

diff --git a/CODE_OF_CONDUCT.md b/CODE_OF_CONDUCT.md
@@ -34,7 +34,7 @@ This Code of Conduct applies both within project spaces and in public spaces whe
 
 ## Enforcement
 
-Instances of abusive, harassing, or otherwise unacceptable behavior may be reported by contacting the project team at filips@ch.pw.edu.pl. The project team will review and investigate all complaints, and will respond in a way that it deems appropriate to the circumstances. The project team is obligated to maintain confidentiality with regard to the reporter of an incident. Further details of specific enforcement policies may be posted separately.
+Instances of abusive, harassing, or otherwise unacceptable behavior may be reported by contacting the project team at ![badge-email](docs/badge-email.png). The project team will review and investigate all complaints, and will respond in a way that it deems appropriate to the circumstances. The project team is obligated to maintain confidentiality with regard to the reporter of an incident. Further details of specific enforcement policies may be posted separately.
 
 Project maintainers who do not follow or enforce the Code of Conduct in good faith may face temporary or permanent repercussions as determined by other members of the project's leadership.
 

diff --git a/README.md b/README.md
@@ -143,15 +143,11 @@ tle                 - directory with tle data
 - [ ] any other cool satellites to record and process?
 - [ ] switch off dongle calibration and move it to a separate external file
 - [ ] gallery from images + descriptions
-- [ ] pass list generator with a Gantt plot
+- [ ] dynamic priority calculation basing on the transit features, like azimuth or altitude.
 
 ## to test
 
-- [ ] move all recordings to the bash file
-- [ ] noaa.sh
-  - [ ] noaa_record.sh
-  - [ ] noaa_process.sh
-  
+ 
 
 ## done!
 
@@ -160,3 +156,8 @@ tle                 - directory with tle data
 - [x] if newdongleShift != '' # WARNING and newdongleShift is numeric:
 - [x] priorities of recordings if the time of recording overlap
 - [x] run recordings on the specified fixed time (for weather fax, for example)
+- [x] pass list generator with a Gantt plot
+- [x] move all recordings to the bash file
+- [x] noaa.sh
+  - [x] noaa_record.sh
+  - [x] noaa_process.sh
